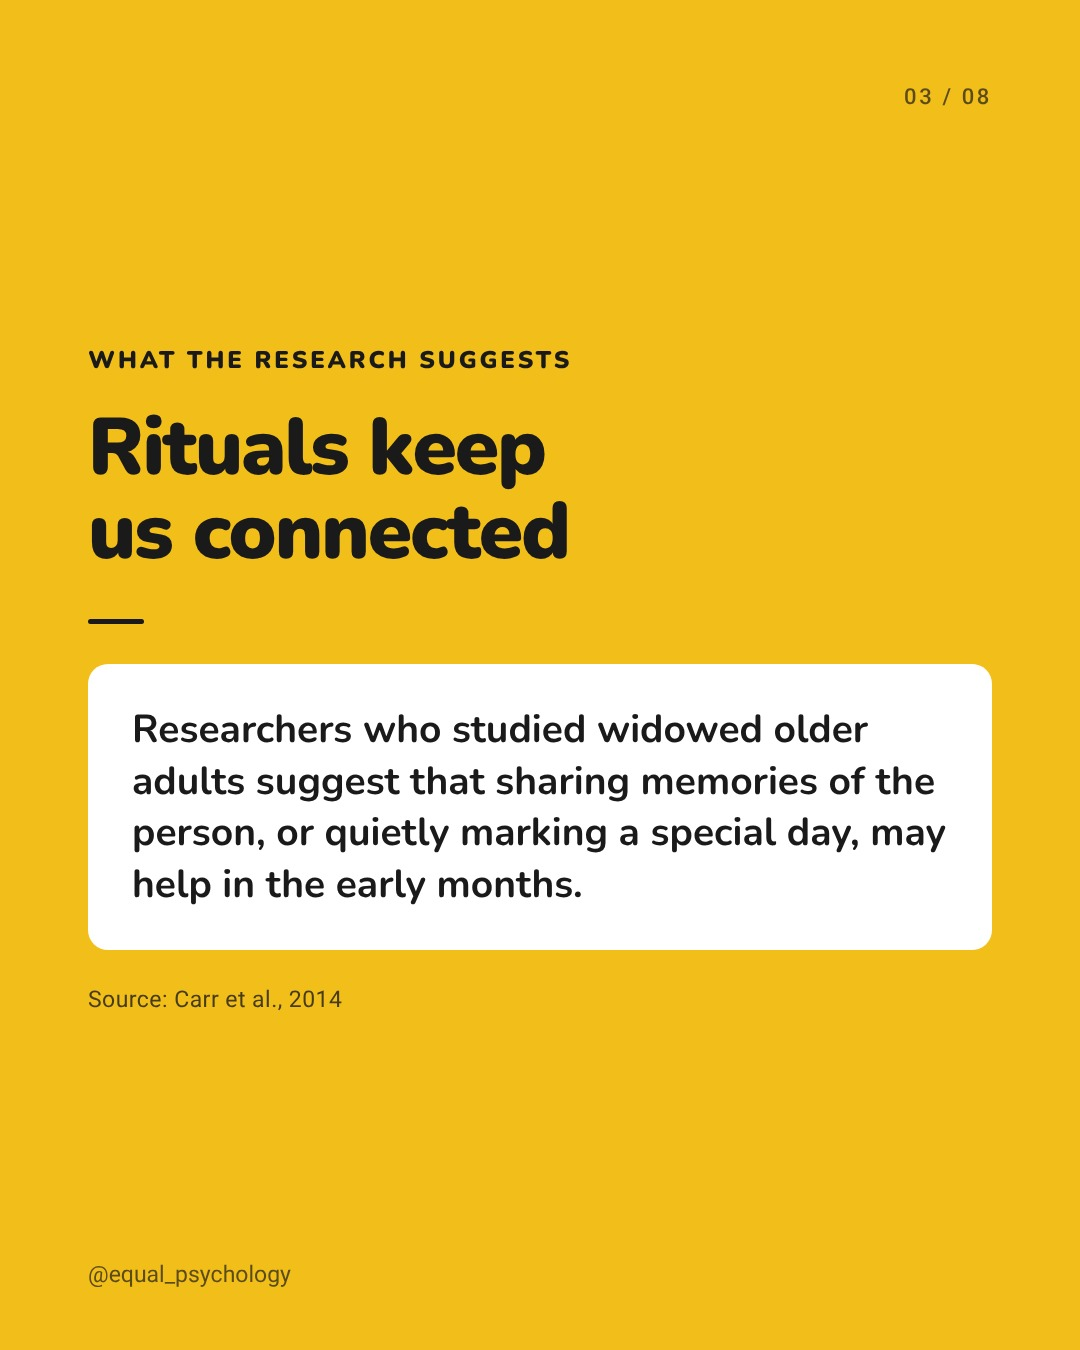
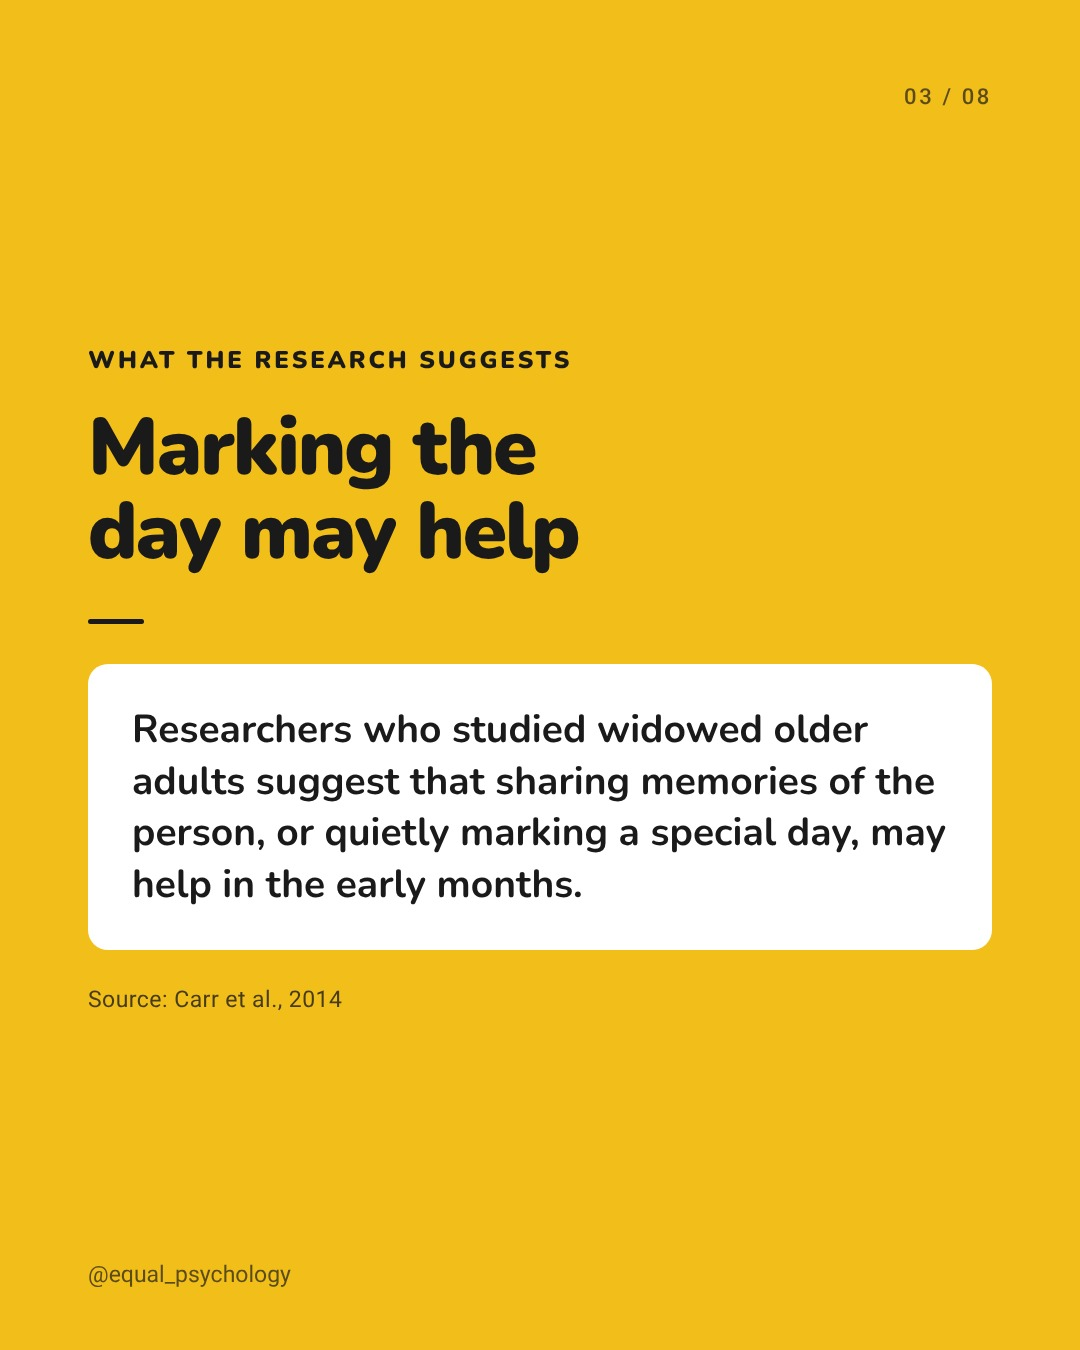
WIP: review follow-ups in progress (3 Nov graphic row label and others)
Claude-Session: https://claude.ai/code/session_01PZVGLP5J3BHdSUAGKuZxXq

Changed region(s): [[0.0917, 0.3111, 0.55, 0.4356]]

diff --git a/tools/feed/build.py b/tools/feed/build.py
@@ -410,7 +410,7 @@ P['2026-12-16'] = [
     statement(2, PY, 'Grief at Christmas', "The holidays are built from memory.",
               ["The seat that was always theirs. The voice that started the same song.",
                "When someone is missing, the season places you back inside those moments."]),
-    research(3, Y, 'What the research suggests', "Rituals keep us connected", [],
+    research(3, Y, 'What the research suggests', "Marking the day may help", [],
              "Researchers who studied widowed older adults suggest that sharing memories of the person, or quietly marking a special day, may help in the early months.",
              "Source: Carr et al., 2014"),
     plain(4, TL, 'A term worth knowing', "Continuing bond", 'In plain language',
@@ -466,7 +466,7 @@ S = {
     '2026-12-12': single(TL, 'Grief at Christmas', "Whether grief is <em>still moving</em> matters more than whether it still hurts.",
                          "Intensity on one day tells you little. What matters is the shape of grief across months.", 96),
     '2027-02-23': single(Y, 'Sleep drive', "That doze on the couch at 9pm can take the edge off <em>tonight&rsquo;s sleep drive</em>.",
-                         "Sleep at any time of day uses up some of the pressure that builds while you are awake. An evening doze spends it right before you need it.", 92),
+                         "Sleep at any time of day uses up some of the pressure that builds while you are awake. An evening doze can spend some of it right before bed.", 92),
     '2026-12-20': single(TL, 'Grief at Christmas', "Grief at Christmas is part of <em>still loving someone.</em>",
                          "What it needs is a little room at the table.", 100, split=CR),
 }

diff --git a/tools/linkedin/build.py b/tools/linkedin/build.py
@@ -216,7 +216,7 @@ page('2026-11-03-demoralization', 'teal', [
   ('table3', 'Demoralization', 'Depression', [
      ('Hallmark', 'Feeling unable to cope or see a way forward', 'Loss of pleasure in things once enjoyed'),
      ('Pleasure', 'Usually still present', 'Usually fades'),
-     ('Concentration, energy, sleep', 'Usually absent', 'May be present')]),
+     ('Poor concentration, low energy, poor sleep', 'Usually absent', 'May be present')]),
   ('line', 'The two can occur separately or together. The distinction is a prompt to look closer.'),
 ], 'Source: de Figueiredo, 2026')
 
